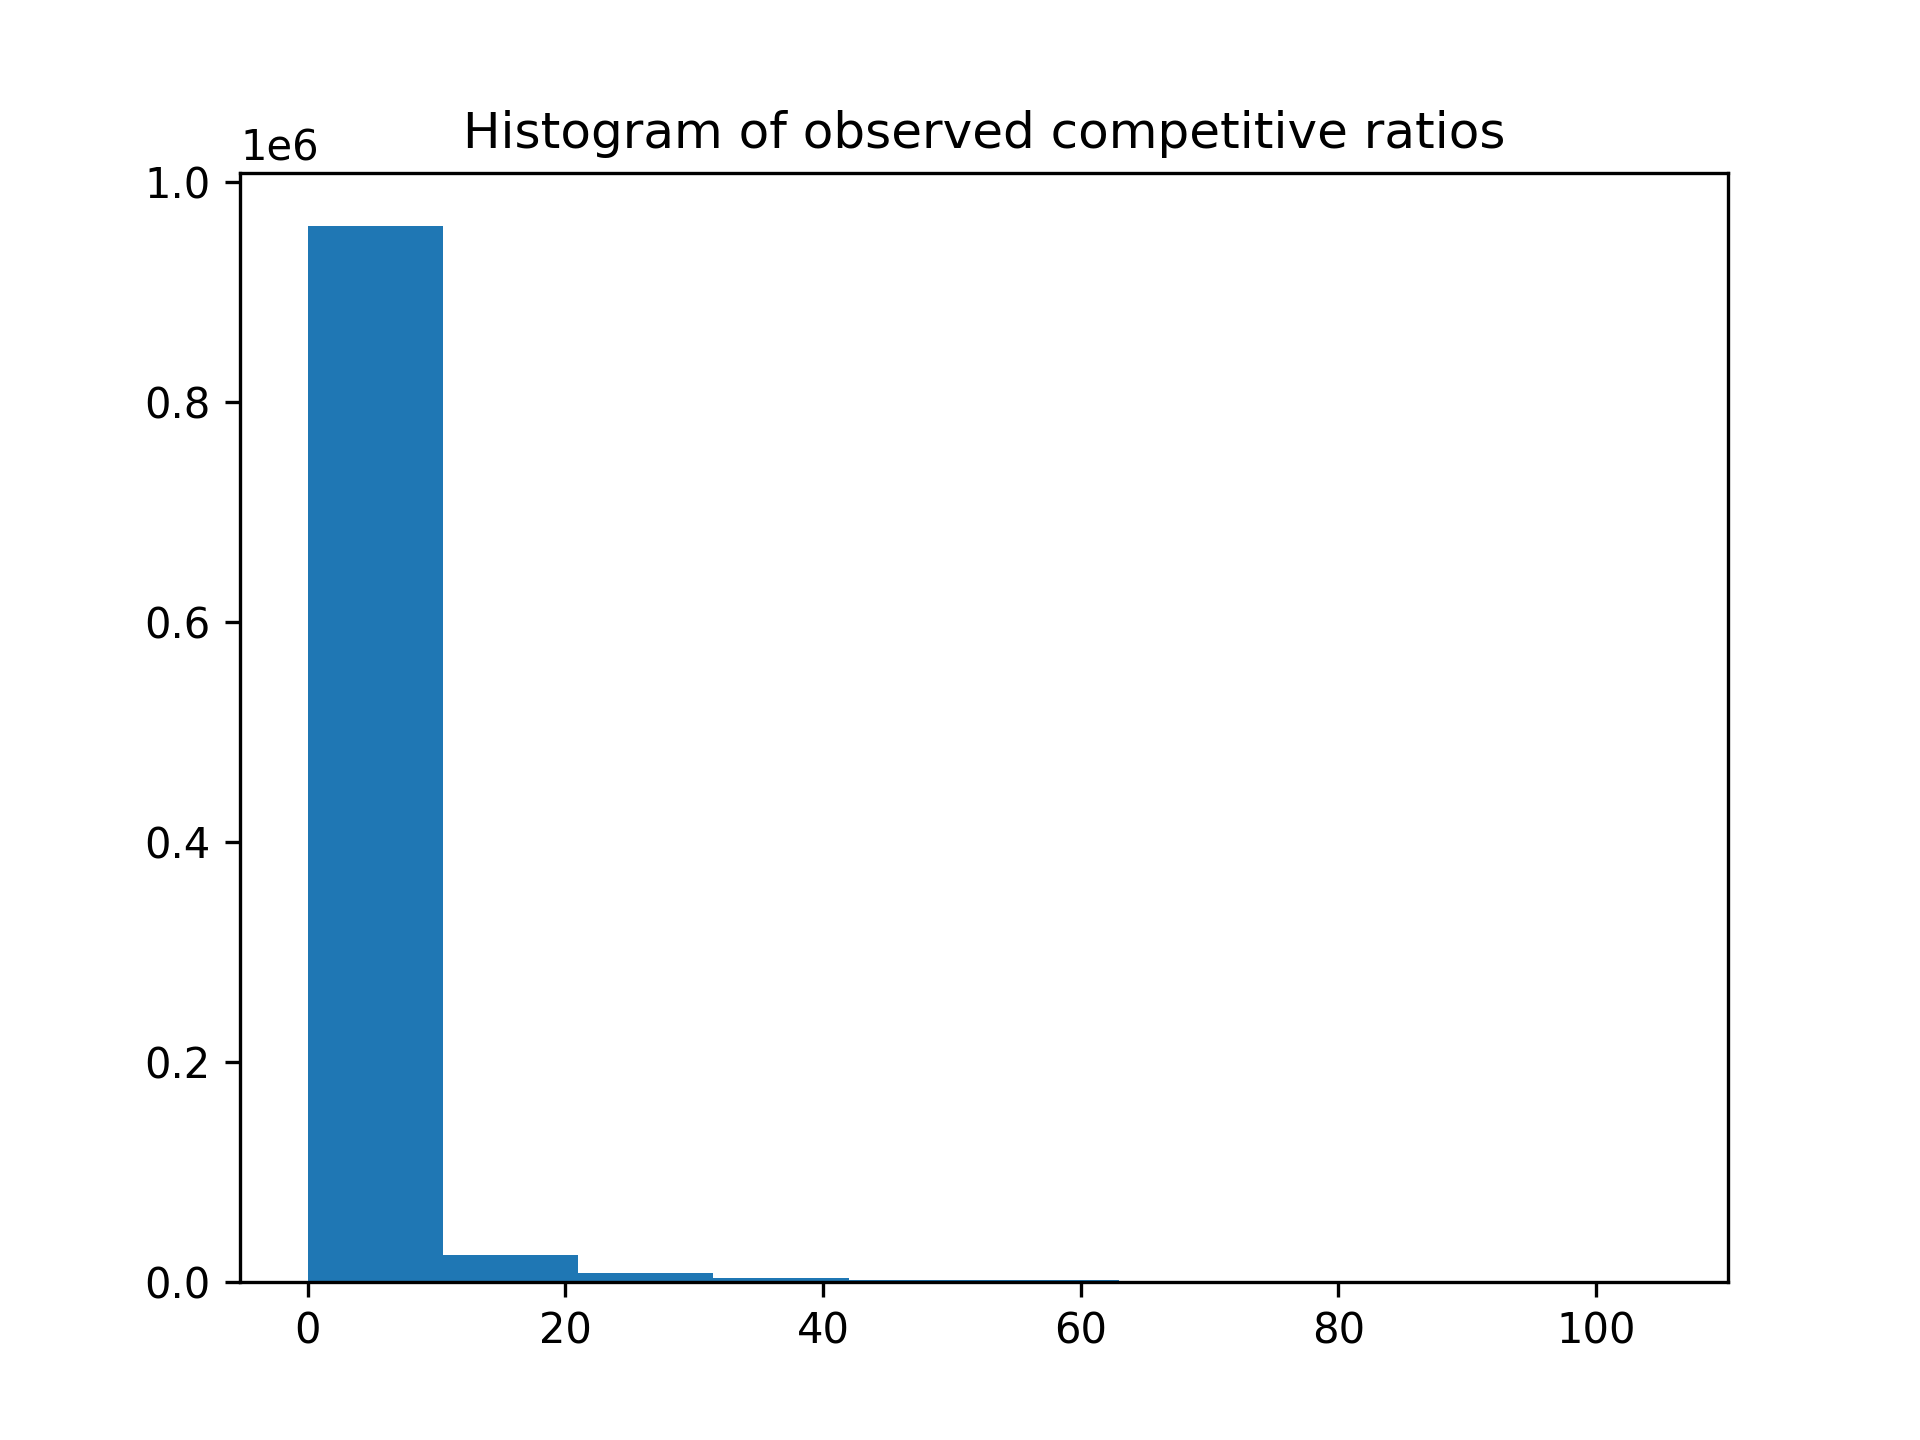
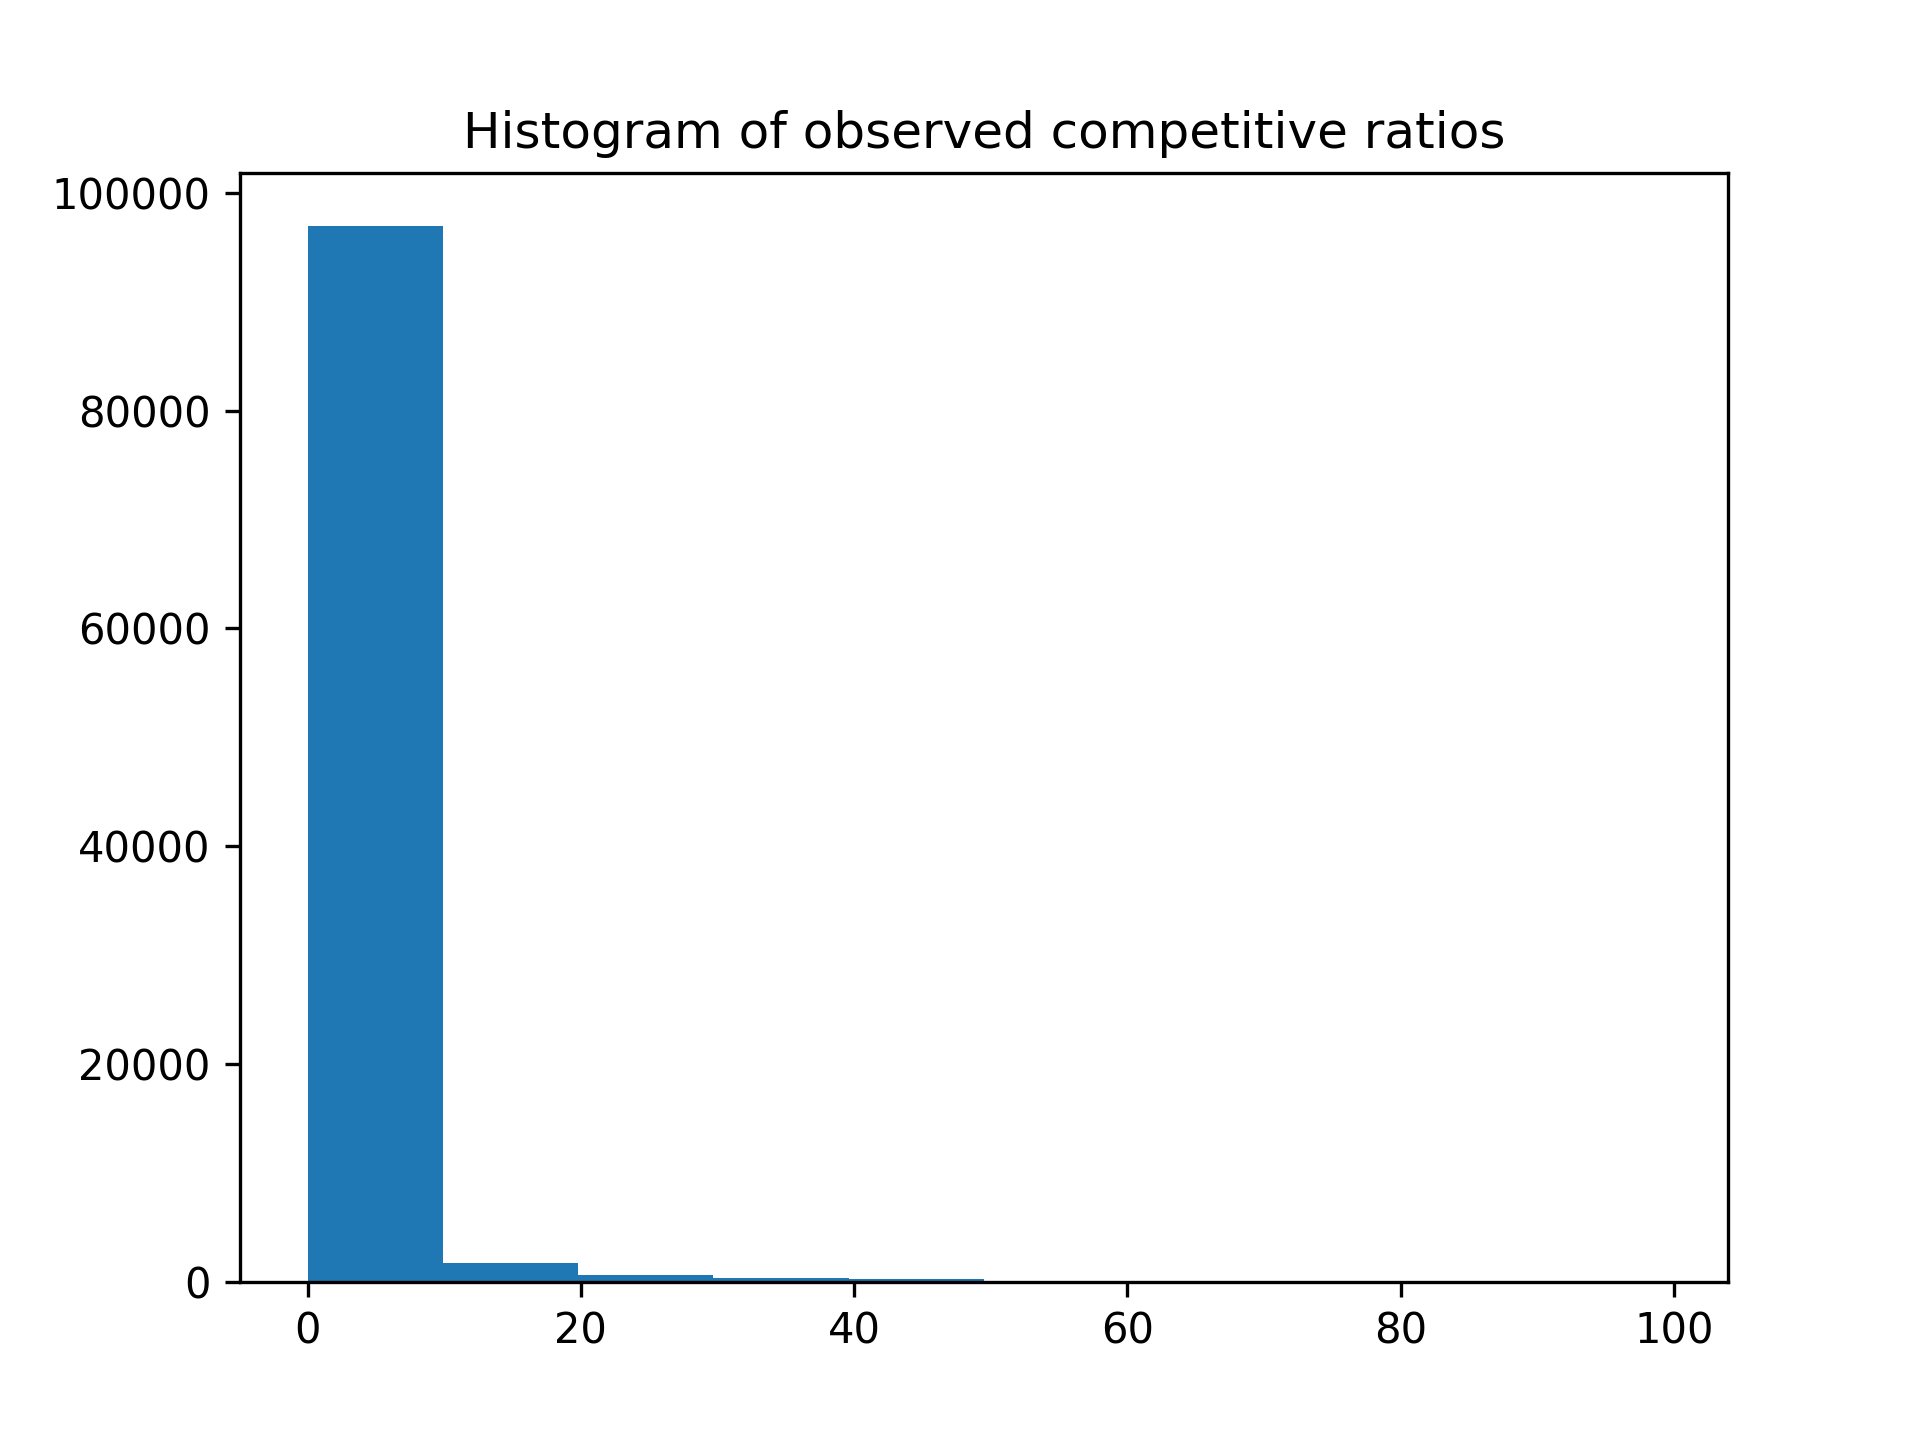
Add alg that sets buying probabilitybased on  price trend and average

diff --git a/algorithms/online.py b/algorithms/online.py
@@ -1,8 +1,14 @@
 import sys
 import random
 
+import pandas as pd
+import numpy as np
+from sklearn.linear_model import LinearRegression
+import matplotlib.pyplot as plt
+
 
 LAMBDA = 1 #The lambda value used as the upper limit for generating random values
+CONSIDER_N_LAST_DAYS = 3 #The number of days to consider when observing the price trend
 
 
 # parent class with basic online algorithm functionality
@@ -77,10 +83,10 @@ class qThresholdOnline(OnlineAlgorithms):
 
         # given some data, decide (how many people to send back, how many people to keep in a hotel)
         def decide(n_remaining, day, s_day, p_day, h_day):
-            if p_day < self.threshold:
-                decision = (s_day, n_remaining - s_day)
-            elif (day + 1) >= self.m: # if last day
+            if (day + 1) >= self.m: # if last day
                 decision = (s_day, n_remaining - s_day) # send max people back
+            elif p_day < self.threshold:
+                decision = (s_day, n_remaining - s_day)
             else:
                 decision = (0, n_remaining) # send no people, everyone stays 
 
@@ -142,3 +148,53 @@ class RandomizedQThresholdOnline(RandomOnline):
             return decision
         
         return decide
+    
+
+class PredictionOnline(RandomOnline):
+    # We send n_remaining - randint(1, lambda) if enough seats are available else as many as possible when p[i] < q * p_max
+    
+    def __init__(self):
+        super().__init__()
+        self.algorithm_name = "Prediction Online"
+        self.s_history = [] #s_history is the history of prices
+        self.decision_function = self.get_decision_function()
+        self.counter = 0
+
+    def is_price_increasing(self, days):
+            if len(self.s_history) < 1 or days == 0:
+                return False
+            x = np.array([i for i in range(len(self.s_history))]).reshape((-1, 1))
+            y = np.array(self.s_history).reshape((-1, 1))
+            model = LinearRegression().fit(x[:days], y[:days])
+            
+            return True if model.coef_ >= 0 else False
+        
+    def is_price_below_average(self, s_day):
+        return s_day < sum(self.s_history) / len(self.s_history)
+    
+    # this function instantiates the decision function
+    def get_decision_function(self):
+
+        # given some data, decide (how many people to send back, how many people to keep in a hotel)
+        def decide(n_remaining, day, s_day, p_day, h_day):
+            self.s_history.append(s_day)
+            price_increasing = self.is_price_increasing(min(day, CONSIDER_N_LAST_DAYS)) #The current price trend according to linear regression on the history of prices
+            price_below_average = self.is_price_below_average(s_day)
+            #Remove magic values
+            probability_of_buying = (.7 if price_increasing else .3 + .8 if price_below_average else .2) / 2
+            if (day + 1) >= self.m: # if last day
+                flying = min(n_remaining, s_day)
+                staying = n_remaining - flying
+                decision = (flying, staying) # send max people back
+            elif random.random() < probability_of_buying:
+                flying = min(n_remaining, s_day)   
+                staying = n_remaining - flying
+                decision = (flying, staying)
+            else:
+                decision = (0, n_remaining) # send no people, everyone stays 
+
+            return decision
+        
+        return decide
+    
+    

diff --git a/test_all.py b/test_all.py
@@ -4,20 +4,23 @@ import os
 sys.path.insert(1, os.path.dirname(os.path.dirname(__file__))) # needed to access other code
 
 import numpy as np
-from algorithms.online import qThresholdOnline, RandomizedQThresholdOnline
+from algorithms.online import qThresholdOnline, RandomizedQThresholdOnline, PredictionOnline
 from utility_functions import generate_test_instances, test_online, plot_data, test_online_until_avgcase
 
 # use this script to automate testing multiple algorithms.
 
-number_of_test_instances = 1000000
+number_of_test_instances = 100000
 
 p_min = 1
 p_max = 100
 
-instances = generate_test_instances(N=number_of_test_instances, n=100, m=20, s=100, h=50, p=(p_min, p_max))
+instances = generate_test_instances(N=number_of_test_instances, n=1, m=10, s=1, h=0, p=(p_min, p_max))
 
 data = test_online_until_avgcase(instances, qThresholdOnline(np.sqrt(1/p_max), p_max), number_of_test_instances / 10, 0.01)
 plot_data(data, 'figures', 'qThreshold')
 
 data = test_online_until_avgcase(instances, RandomizedQThresholdOnline(np.sqrt(1/p_max), p_max), number_of_test_instances / 10, 0.01)
 plot_data(data, 'figures', 'RandomizedQThresholdOnline')
+
+data = test_online_until_avgcase(instances, PredictionOnline(), number_of_test_instances / 10, 0.01)
+plot_data(data, 'figures', 'PredictionOnline')

diff --git a/test_one.py b/test_one.py
@@ -1,7 +1,7 @@
 import sys
 import numpy as np
 from algorithms.offline import solve_offline
-from algorithms.online import qThresholdOnline, RandomizedQThresholdOnline
+from algorithms.online import qThresholdOnline, RandomizedQThresholdOnline, PredictionOnline
 from input_output_handler import deserialize, validate_params, parse_output, serialize
 
 input_file_directory = 'input' 
@@ -34,6 +34,9 @@ elif algorithm == "deterministic": # online deterministic algorithm
 
 elif algorithm == "random": # online randomized algorithm
     output = RandomizedQThresholdOnline(np.sqrt(1/p_max), p_max).solve_instance(params)
+
+elif algorithm == "prediction": # online randomized algorithm
+    output = PredictionOnline().solve_instance(params)
 
 else:
     output = solve_offline(*params) # default, fallback
